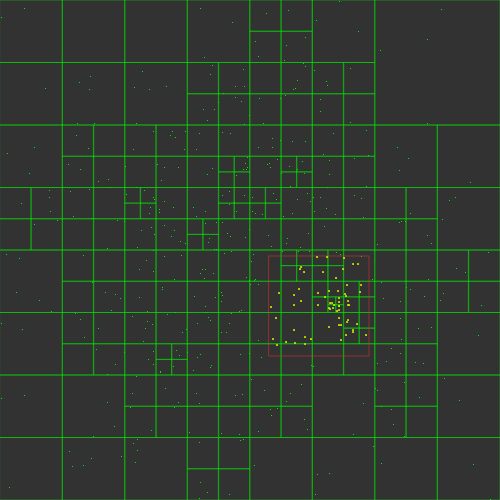
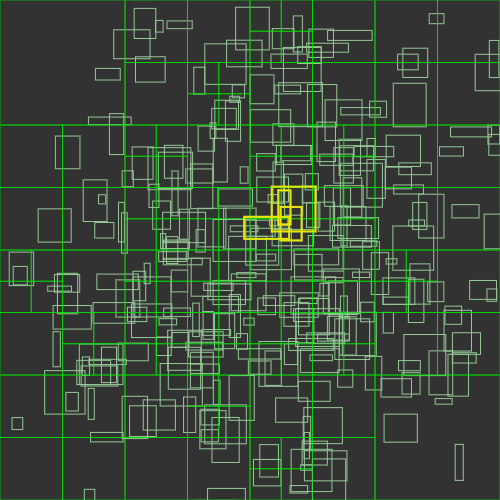
p5js/common/quadtree-2 - Add support for storing rectangles

diff --git a/js/models/quadtree.js b/js/models/quadtree.js
@@ -1,7 +1,8 @@
 class Quadtree {
-  constructor(sizeAndPos, limit){
+  constructor(sizeAndPos, limit, containsPoints = true){
     this.area = sizeAndPos;
     this.limit = limit;
+    this.containsPoints = containsPoints;
 
     this.objects = [];
     this.quadrants = [];
@@ -27,22 +28,39 @@ class Quadtree {
     return this.add(obj);
   }
 
-  find(inRect){
+  find(queryObj){
     if (this.expanded) {
-      return this.quadrants.map(q => q.find(inRect)).flat();
+      return this.quadrants.map(q => q.find(queryObj)).flat();
     } else {
-      return this.objects.filter(obj => inRect.containsXY(obj.x, obj.y));
+      if (this.containsPoints){
+        // Assume query object is a Rect {x, y, width, height}
+        return this.objects.filter(obj => Rect.rectContainsXY(queryObj, obj.x, obj.y));
+      } else if(queryObj.width == undefined){
+        // Assume query object is a Point {x, y}
+        return this.objects.filter(obj => Rect.rectContainsXY(obj, queryObj.x, queryObj.y));
+        
+      } else {
+        // Assume query object is a Rect {x, y, width, height}
+        // TODO: Add Rect.overlaps() UNSUPPORTED 
+        // return this.objects.filter(obj => queryObj.overlaps(obj));
+      }
     }
   }
 
   expand(){
-    const halfW  = this.area.width / 2;
+    const halfW = this.area.width / 2;
     const halfH = this.area.height / 2;
 
-    this.quadrants.push(new Quadtree(new Rect(this.area.x, this.area.y, halfW, halfH), this.limit));
-    this.quadrants.push(new Quadtree(new Rect(this.area.x + halfW, this.area.y, halfW, halfH), this.limit));
-    this.quadrants.push(new Quadtree(new Rect(this.area.x + halfW, this.area.y + halfH, halfW, halfH), this.limit));
-    this.quadrants.push(new Quadtree(new Rect(this.area.x, this.area.y + halfH, halfW, halfH), this.limit));
+    const subQuadrants = [
+      new Rect(this.area.x, this.area.y, halfW, halfH),
+      new Rect(this.area.x + halfW, this.area.y, halfW, halfH),
+      new Rect(this.area.x + halfW, this.area.y + halfH, halfW, halfH),
+      new Rect(this.area.x, this.area.y + halfH, halfW, halfH)
+    ]
+
+    for(let i = 0; i < 4; i++){
+      this.quadrants.push(new Quadtree(subQuadrants[i], this.limit, this.containsPoints));
+    }
     this.expanded = true;
   }
 

diff --git a/p5js/common/examples/quadtree-2/app.js b/p5js/common/examples/quadtree-2/app.js
@@ -1,14 +1,15 @@
 var canvas;
 var quadtree;
+let lastTouch;
 
 function setup() {
   createCanvas(500, 500);
   P5JsSettings.init();
 
   let fullCanvas = new Rect(0, 0, width, height);
-  quadtree = new Quadtree(fullCanvas, 5);
+  quadtree = new Quadtree(fullCanvas, 5, false);
 
-  addRandomPoints();
+  addRandomRects();
 }
 
 function draw(){
@@ -18,7 +19,7 @@ function draw(){
   stroke(0, 230, 0);
   drawQuadtree(quadtree);
 
-  highlightAroundMouse();
+  highlightUnderMouse();
 }
 
 function keyTyped(){
@@ -27,14 +28,17 @@ function keyTyped(){
   }
 }
 
-function mousePressed(){
-  quadtree.add({x: mouseX, y: mouseY});
+function touchMoved(){
+  lastTouch = touches[0];
 }
 
-function addRandomPoints(){
-  for (let i = 0; i < 500; i++){
-     quadtree.add({x: randomGaussian(width/2, width/4),
-                   y: randomGaussian(height/2, height/4)});
+function addRandomRects(){
+  for (let i = 0; i < 300; i++){
+
+    quadtree.add({x: randomGaussian(width/2, width/4),
+                  y: randomGaussian(height/2, height/4),
+                  width: 5 + random(40),
+                  height: 5 + random(40)});
   }
 }
 
@@ -44,11 +48,27 @@ function drawQuadtree(qt){
   } else {
     strokeWeight(1)
     qt.objects.forEach(obj => {
-      point(obj.x, obj.y);
+      stroke(150, 200, 150);
+      rect(obj.x, obj.y, obj.width, obj.height);  
     });
     strokeWeight(0.5);
+    stroke(0, 230, 0);
     rect(qt.area.x, qt.area.y, qt.area.width, qt.area.height);
   }
+}
+
+function highlightUnderMouse(){
+  let objects;
+  if (lastTouch){
+    objects = quadtree.find(lastTouch);
+  } else {
+    objects = quadtree.find({x: mouseX, y: mouseY});
+  }
+  
+  strokeWeight(2);
+  stroke(230, 230, 0);
+
+  objects.forEach(obj => rect(obj.x, obj.y, obj.width, obj.height) );
 }
 
 function highlightAroundMouse(){

diff --git a/p5js/common/examples/quadtree-2/local_dev.html b/p5js/common/examples/quadtree-2/local_dev.html
@@ -2,7 +2,9 @@
 <html>
 <head>
     <title>P5.JS - Examples - Quadtree 2</title>
+    <meta name="viewport" content="user-scalable=no,initial-scale=1,maximum-scale=1,minimum-scale=1,width=device-width">
 
+    <script src="//cdnjs.cloudflare.com/ajax/libs/inobounce/0.2.1/inobounce.js" charset="utf-8"></script>
     <script src="/sketchbook/vendor/p5.js/0.7.2/p5.js" charset="utf-8"></script>
     <script src="/sketchbook/p5js/common/p5js_settings.js" charset="utf-8"></script>
     <script src="/sketchbook/p5js/common/p5js_utils.js" charset="utf-8"></script>

diff --git a/js/models/rect.js b/js/models/rect.js
@@ -49,6 +49,11 @@ class Rect {
     this._height = maxY - this._y;
   }
 
+  static rectContainsXY(rect1, x, y){
+    return rect1.x <= x && x < (rect1.x + rect1.width)
+           && rect1.y <= y && y < (rect1.y + rect1.height);
+  }
+
   containsXY(x, y){ 
     return this.minX <= x && x < this.maxX 
            && this.minY <= y && y < this.maxY;

diff --git a/README.md b/README.md
@@ -28,6 +28,7 @@ Collection of sketches using the [p5.js][p5js] Javascript library.
 [<img src="./p5js/common/examples/draggable/screenshot-01.png" alt="draggable" width="150px" />][link-p5js-draggable]
 [<img src="./p5js/common/examples/paisley/screenshot-01.png" alt="paisley" width="150px" />][link-p5js-paisley]
 [<img src="./p5js/common/examples/quadtree/screenshot-01.png" alt="quadtree" width="150px" />][link-p5js-quadtree]
+[<img src="./p5js/common/examples/quadtree-2/screenshot-01.png" alt="quadtree" width="150px" />][link-p5js-quadtree-2]
 [<img src="./p5js/common/examples/teardrops/screenshot-01.png" alt="teardrops" width="150px" />][link-p5js-teardrops]
 [<img src="./p5js/common/examples/voronoi/screenshot-01.png" alt="voronoi" width="150px" />][link-p5js-voronoi]
 [<img src="./p5js/ecosystem/screenshot-01.png" alt="ecosystem" width="150px" />][link-p5js-ecosystem]
@@ -121,6 +122,7 @@ Collection of sketches using the [Processing (P3)][processing] environment.
 [link-p5js-paisley]: https://github.com/brianhonohan/sketchbook/tree/master/p5js/common/examples/paisley/
 [link-p5js-paisley-01]: https://github.com/brianhonohan/sketchbook/tree/master/p5js/paisley-01/
 [link-p5js-quadtree]: https://github.com/brianhonohan/sketchbook/tree/master/p5js/common/examples/quadtree/
+[link-p5js-quadtree-2]: https://github.com/brianhonohan/sketchbook/tree/master/p5js/common/examples/quadtree-2/
 [link-p5js-voronoi]: https://github.com/brianhonohan/sketchbook/tree/master/p5js/common/examples/voronoi/
 [link-p5js-random-1]: https://github.com/brianhonohan/sketchbook/tree/master/p5js/random/1/
 [link-p5js-random-2]: https://github.com/brianhonohan/sketchbook/tree/master/p5js/random/2/

diff --git a/p5js/common/examples/quadtree-2/README.md b/p5js/common/examples/quadtree-2/README.md
@@ -1,16 +1,21 @@
 
 ## Overview
 
-This is a [p5.js][p5js-home] sketch to demonstrate an implementation of a [Quadtree][wikipedia-quadtree] data structure.
+This is a [p5.js][p5js-home] sketch to demonstrate an implementation of a [Quadtree][wikipedia-quadtree-pm] data structure.
+
+Specifically, this enables a type referred to as a `Polygonal Map`, though limited to storing rectangles. The `Quadtree` class can still store points as well, with an optional `containsPoints` parameter defaulting to `true` for the original implementation.
+
 
 ## Controls
 
 Mouse
-- `Click` - Adds a new point to the Quadtree based on the mouse's current location.
-- `Move` - Highlights the points in a rectangle centered around the mouse.
+- `Move` - Highlights the rectangles centered around the mouse.
+
+Touch
+- `Touch and Drag` - Highlights the rectangles centered around the main touch point.
 
 # References:
-* [Wikipedia - Quadtree][wikipedia-quadtree]
+* [Wikipedia - Quadtree - Polygonal Map (PM)][wikipedia-quadtree-pm]
 * [Coding Train][coding-train] [Episode 98.1][ct-challenge-98.1] [98.2][ct-challenge-98.2]
 
 # Links: 
@@ -27,7 +32,7 @@ Mouse
 [live-view]: https://brianhonohan.com/sketchbook/p5js/common/examples/quadtree/
 [screenshot-01]: ./screenshot-01.png
 
-[wikipedia-quadtree]: https://en.wikipedia.org/wiki/Quadtree
+[wikipedia-quadtree-pm]: https://en.wikipedia.org/wiki/Quadtree#Polygonal_map_(PM)_quadtree
 [coding-train]: https://thecodingtrain.com/
 
 [ct-challenge-98.1]: https://www.youtube.com/watch?v=OJxEcs0w_kE&index=140&list=PLRqwX-V7Uu6ZiZxtDDRCi6uhfTH4FilpH
